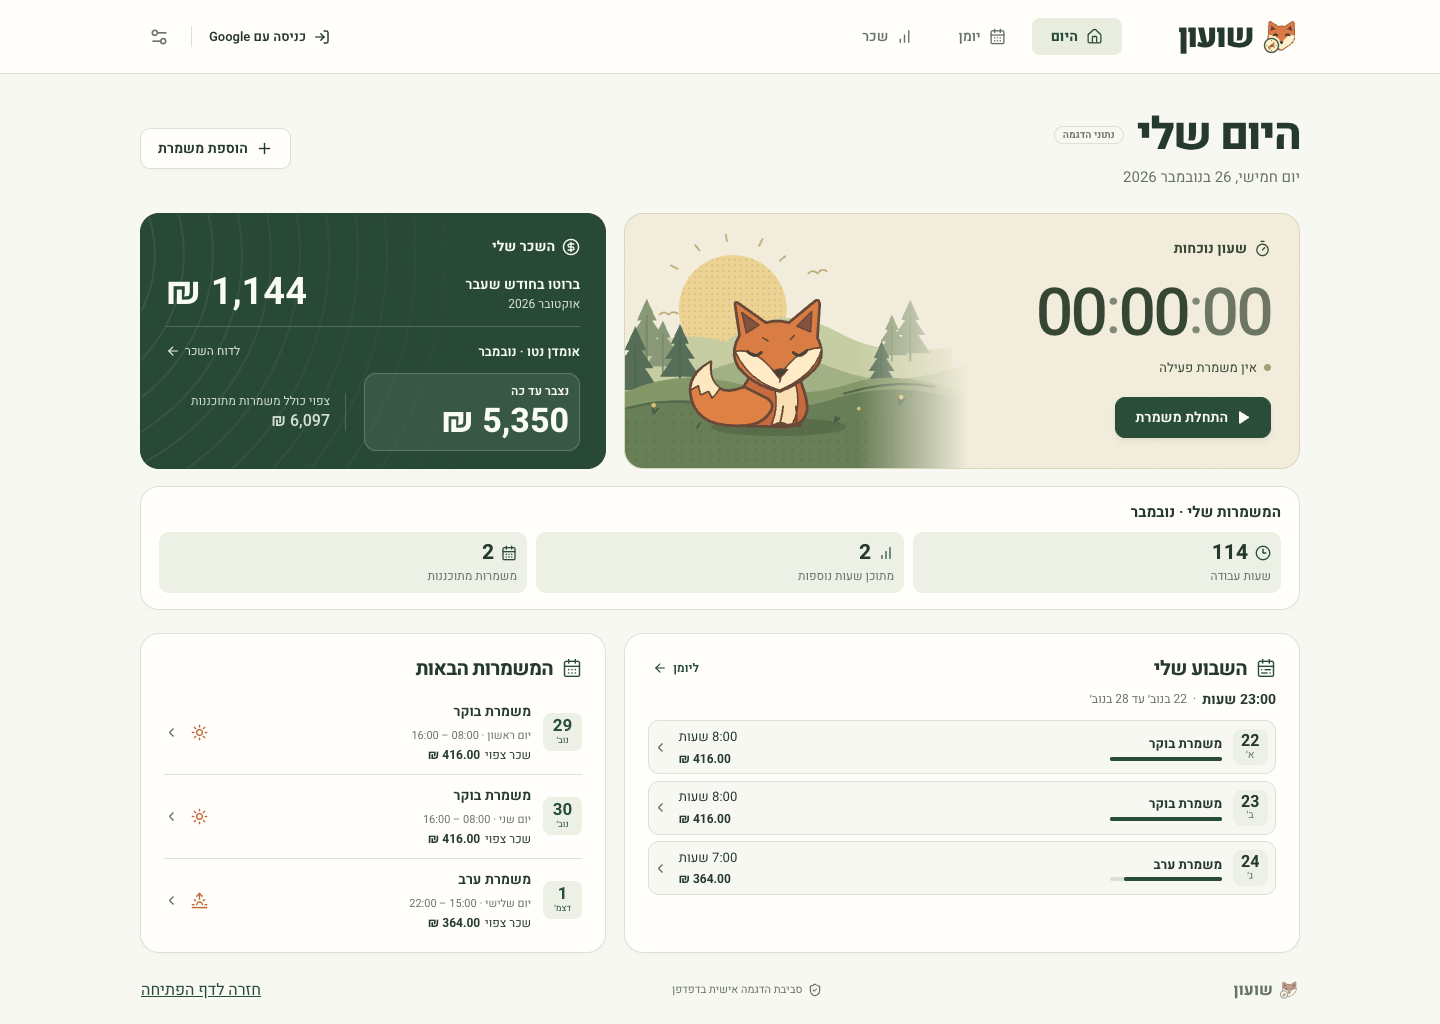
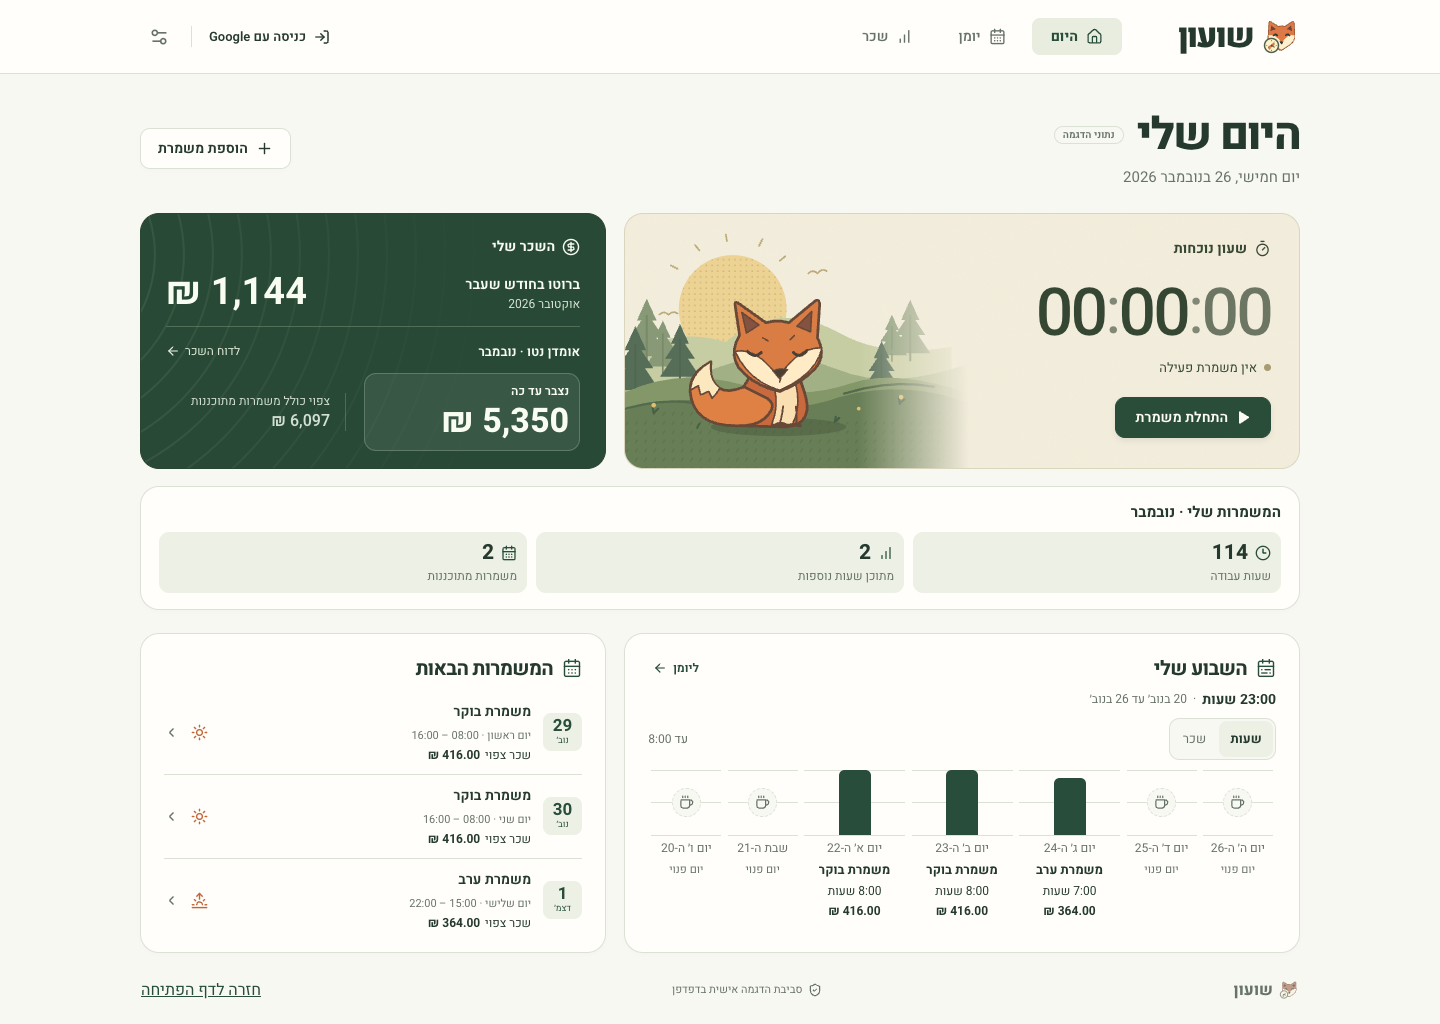
Chart recent shifts by hours and pay with days off

Changed region(s): [[0.4375, 0.7188, 0.6875, 0.9062], [0.7188, 0.7188, 0.875, 0.9062]]

diff --git a/src/components/Dashboard.tsx b/src/components/Dashboard.tsx
@@ -19,7 +19,7 @@ import { Forest } from './Forest'
 import type { ShiftPay } from '../domain/gross'
 import { ShiftGross } from './ShiftGross'
 import { TimeRange } from './TimeRange'
-import { addDays, localDate, localTime, weekday } from '../domain/time'
+import { addDays, HOUR_MS, localDate, localTime } from '../domain/time'
 import { formatWorkDuration, shiftWorkMillis } from '../data/shift-hours'
 import { dateLabel, formatMoney, hourCount, type WorkShift } from '../data/model'
 
@@ -120,14 +120,13 @@ function Clock({ active, scheduled, scheduledGross, busy, foxReaction, onTimer }
   )
 }
 function Weekly({ today, shifts, shiftPayById, onCalendar, onShift }: Pick<Props, 'today' | 'shifts' | 'shiftPayById' | 'onCalendar' | 'onShift'>) {
-  const start = addDays(today, -weekday(today))
-  const end = addDays(start, 6)
+  const start = addDays(today, -6)
   const entries = useMemo(() =>
     shifts
       .map((shift) => ({ shift, date: localDate(shift.start) }))
-      .filter(({ date }) => start <= date && date <= end)
+      .filter(({ date }) => start <= date && date <= today)
       .sort((a, b) => Date.parse(a.shift.start) - Date.parse(b.shift.start)),
-    [shifts, start, end],
+    [shifts, start, today],
   )
   const hasActive = entries.some(({ shift }) => shift.status === 'active')
   const [now, setNow] = useState(Date.now)
@@ -138,9 +137,21 @@ function Weekly({ today, shifts, shiftPayById, onCalendar, onShift }: Pick<Props
     const timer = window.setInterval(refresh, 15_000)
     return () => window.clearInterval(timer)
   }, [hasActive])
-  const rows = entries.map((entry) => ({ ...entry, millis: shiftWorkMillis(entry.shift, now) }))
+  const [metric, setMetric] = useState<'hours' | 'pay'>('hours')
+  const rows = entries.map((entry) => ({
+    ...entry,
+    millis: shiftWorkMillis(entry.shift, now),
+    gross: shiftPayById.get(entry.shift.id)?.gross,
+  }))
+  const columns = Array.from({ length: 7 }, (_, offset) => addDays(today, -offset)).flatMap<{ date: string; row: (typeof rows)[number] | null }>((date) => {
+    const dayRows = rows.filter((row) => row.date === date)
+    return dayRows.length ? dayRows.map((row) => ({ date, row })) : [{ date, row: null }]
+  })
   const total = rows.reduce((sum, row) => sum + row.millis, 0)
-  const longest = rows.reduce((max, row) => Math.max(max, row.millis), 1)
+  const plotValue = (row: (typeof rows)[number]) => metric === 'hours' ? row.millis : row.gross
+  const step = metric === 'hours' ? 2 * HOUR_MS : 100
+  const highest = rows.reduce((max, row) => Math.max(max, plotValue(row) ?? 0), 0)
+  const ceiling = Math.max(step, Math.ceil(highest / step) * step)
   const shortDate = { day: 'numeric', month: 'short' } as const
 
   return (
@@ -157,36 +168,58 @@ function Weekly({ today, shifts, shiftPayById, onCalendar, onShift }: Pick<Props
       <div className="week-sub">
         <b><bdi dir="ltr">{formatWorkDuration(total)}</bdi> שעות</b>
         <span>·</span>
-        {dateLabel(start, shortDate)} עד {dateLabel(end, shortDate)}
+        {dateLabel(start, shortDate)} עד {dateLabel(today, shortDate)}
       </div>
-      {rows.length === 0 ? <p className="week-empty">אין משמרות השבוע.</p> : (
+      <div className="week-graph">
+        <div className="week-graph-toolbar">
+          <div className="week-metric" role="group" aria-label="מדד הגרף">
+            <button type="button" aria-pressed={metric === 'hours'} onClick={() => setMetric('hours')}>שעות</button>
+            <button type="button" aria-pressed={metric === 'pay'} onClick={() => setMetric('pay')}>שכר</button>
+          </div>
+          <span className="week-scale">
+            עד <bdi>{metric === 'hours' ? formatWorkDuration(ceiling) : formatMoney(ceiling)}</bdi>
+          </span>
+        </div>
         <ul className="week-shifts" aria-label="משמרות השבוע">
-          {rows.map(({ shift, date, millis }) => (
-            <li key={shift.id}>
-              <button type="button" className="week-shift" data-status={shift.status} onClick={() => onShift(shift)}>
-                <span className="week-shift-date">
-                  <span className="sr-only">{dateLabel(date, { weekday: 'long', ...shortDate })}</span>
-                  <strong aria-hidden="true">{Number(date.slice(-2))}</strong>
-                  <small aria-hidden="true">{dateLabel(date, { weekday: 'narrow' })}</small>
-                </span>
-                <span className="week-shift-name">
-                  <strong>{shift.title || 'משמרת עבודה'}</strong>
-                  <span className="week-shift-track" aria-hidden="true">
-                    <span style={{ width: (millis / longest) * 100 + '%' }} />
+          {columns.map(({ date, row }) => {
+            const label = dateLabel(date, { weekday: 'short', day: 'numeric' })
+            if (!row) {
+              return (
+                <li className="week-day-off" key={date}>
+                  <button type="button" className="week-shift" onClick={() => onCalendar(date)}>
+                    <span className="week-shift-plot" aria-hidden="true">
+                      <span className="week-off-icon"><Coffee size={15} /></span>
+                    </span>
+                    <span className="week-shift-date">{label}</span>
+                    <span className="week-off-label">יום פנוי</span>
+                  </button>
+                </li>
+              )
+            }
+            const { shift, millis, gross } = row
+            const value = plotValue(row)
+            return (
+              <li key={shift.id}>
+                <button type="button" className="week-shift" data-status={shift.status} onClick={() => onShift(shift)}>
+                  <span className="week-shift-plot" aria-hidden="true">
+                    {value === undefined
+                      ? <span className="week-shift-missing">—</span>
+                      : <span className="week-shift-bar" style={{ height: value / ceiling * 100 + '%' }} />}
                   </span>
-                </span>
-                <span className="week-shift-totals">
-                  <span><bdi dir="ltr">{formatWorkDuration(millis)}</bdi> שעות</span>
-                  {shift.status === 'active'
-                    ? <small>פעילה</small>
-                    : <ShiftGross status={shift.status} gross={shiftPayById.get(shift.id)?.gross} compact />}
-                </span>
-                <ChevronLeft size={15} aria-hidden="true" />
-              </button>
-            </li>
-          ))}
+                  <span className="week-shift-date">{label}</span>
+                  <strong className="week-shift-name">{shift.title || 'משמרת עבודה'}</strong>
+                  <span className="week-shift-totals">
+                    <span><bdi dir="ltr">{formatWorkDuration(millis)}</bdi> שעות</span>
+                    {shift.status === 'active'
+                      ? <small>פעילה</small>
+                      : <ShiftGross status={shift.status} gross={gross} compact />}
+                  </span>
+                </button>
+              </li>
+            )
+          })}
         </ul>
-      )}
+      </div>
     </article>
   )
 }

diff --git a/src/style.css b/src/style.css
@@ -801,27 +801,86 @@ button:not(:disabled):active {
   color: var(--ink);
   font-size: 14px;
 }
+.weekly,
+.week-graph {
+  min-width: 0;
+}
+.week-graph-toolbar {
+  display: flex;
+  align-items: center;
+  justify-content: space-between;
+  margin-top: 0.55rem;
+  gap: 0.5rem;
+}
+.week-metric {
+  display: inline-flex;
+  padding: 2px;
+  gap: 2px;
+  border: 1px solid var(--line);
+  border-radius: 0.65rem;
+  background: var(--paper);
+}
+.week-metric button {
+  min-height: 36px;
+  padding: 0.25rem 0.7rem;
+  border-radius: 0.48rem;
+  background: transparent;
+  color: var(--muted);
+  font-size: 0.8rem;
+  cursor: pointer;
+}
+.week-metric button[aria-pressed='true'] {
+  background: var(--tint);
+  color: var(--ink);
+  font-weight: 700;
+}
+.week-scale,
+.week-shift-date,
+.week-off-label {
+  color: var(--muted);
+  font-size: 0.76rem;
+}
 .week-shifts {
-  display: grid;
-  gap: 0.4rem;
+  display: flex;
+  overflow-x: auto;
   list-style: none;
-  margin: 0.65rem 0 0;
-  padding: 0;
+  margin: 0.45rem 0 0;
+  padding: 0 0 0.2rem;
+}
+.week-shifts li {
+  flex: 1 0 5.35rem;
+  min-width: 0;
+}
+.week-shifts .week-day-off {
+  flex-basis: 3.4rem;
+}
+.week-off-icon {
+  display: grid;
+  place-items: center;
+  align-self: center;
+  width: 1.8rem;
+  height: 1.8rem;
+  border: 1px dashed var(--line);
+  border-radius: 50%;
+  background: var(--paper);
+  color: var(--muted);
+}
+.week-off-label {
+  font-size: 0.7rem;
 }
 .week-shift {
   --week-shift-tone: var(--green);
   display: grid;
-  grid-template-columns: auto minmax(0, 1fr) auto 12px;
-  align-items: center;
-  gap: clamp(0.35rem, 1.5vw, 0.65rem);
+  justify-items: center;
+  align-content: start;
+  gap: 0.22rem;
   width: 100%;
-  min-height: 48px;
-  padding: 0.35rem 0.45rem;
-  border: 1px solid var(--line);
-  border-radius: 0.7rem;
-  background: var(--paper);
+  min-height: 100%;
+  padding: 0.15rem 0.2rem 0.35rem;
+  border-radius: 0.55rem;
+  background: transparent;
   color: var(--ink);
-  text-align: start;
+  text-align: center;
   cursor: pointer;
 }
 .week-shift[data-status='planned'] {
@@ -831,63 +890,42 @@ button:not(:disabled):active {
   --week-shift-tone: var(--clock-active);
 }
 .week-shift:hover {
-  border-color: var(--week-shift-tone);
   background: var(--tint);
 }
-.week-shift-date {
-  display: grid;
-  justify-items: center;
-  align-content: center;
-  inline-size: 2.2rem;
-  min-block-size: 2.25rem;
-  border-radius: 0.5rem;
-  background: var(--tint);
-  color: var(--ink);
-  line-height: 1.05;
+.week-shift:focus-visible {
+  outline-offset: -2px;
 }
-.week-shift-date strong {
-  font-size: 1rem;
+.week-shift-plot {
+  display: flex;
+  justify-content: center;
+  align-items: end;
+  width: 100%;
+  height: 4.1rem;
+  border-bottom: 1px solid var(--line);
+  background: repeating-linear-gradient(to bottom, var(--line) 0 1px, transparent 1px 50%);
 }
-.week-shift-date small {
-  font-size: 0.65rem;
+.week-shift-bar {
+  width: min(55%, 2rem);
+  background: var(--week-shift-tone);
+  border-radius: 0.35rem 0.35rem 0 0;
 }
-.week-shift-name,
-.week-shift-totals {
-  display: grid;
-  gap: 0.18rem;
-  font-size: 0.82rem;
+.week-shift[data-status='planned'] .week-shift-bar {
+  background: repeating-linear-gradient(-45deg, var(--week-shift-tone) 0 3px, var(--tint) 3px 5px);
 }
 .week-shift-name {
+  width: 100%;
+  font-size: 0.8rem;
   overflow-wrap: anywhere;
 }
-.week-shift-track {
-  display: block;
-  height: 4px;
-  width: min(100%, 7rem);
-  border-radius: 999px;
-  background: var(--line);
-}
-.week-shift-track span {
-  display: block;
-  height: 100%;
-  border-radius: inherit;
-  background: var(--week-shift-tone);
-}
 .week-shift-totals {
-  justify-items: end;
+  display: grid;
+  justify-items: center;
+  gap: 0.12rem;
+  font-size: 0.75rem;
   font-variant-numeric: tabular-nums;
 }
-.week-shift small,
-.week-shift > svg,
-.week-empty {
-  color: var(--muted);
-}
-.week-empty {
-  color: var(--muted);
-}
-.week-empty {
-  font-size: 0.86rem;
-  margin: 0.75rem 0 0;
+.week-shift-totals .shift-gross {
+  justify-content: center;
 }
 .upcoming .panel-heading {
   margin-bottom: 8px;

diff --git a/README.md b/README.md
@@ -16,12 +16,12 @@
 
 | מסך | מה עושים בו |
 | --- | --- |
-| **היום שלי** | מתחילים ומסיימים משמרת, רושמים הפסקות ורואים ברשימה השבועית תאריך, פס אורך, שעות ושכר לכל משמרת. לכל משמרת מתוכננת מוצג השכר הצפוי. לצד השעון מופיעים הברוטו של החודש הקודם, אומדן הנטו שנצבר החודש, שמוצג בהבלטה, והתחזית לסופו. |
+| **היום שלי** | מתחילים ומסיימים משמרת, רושמים הפסקות ורואים בגרף השבועי את שעות העבודה והשכר לכל משמרת בשבעת הימים האחרונים. ימים בלי משמרות מסומנים כימים פנויים. אפשר להחליף את מדד העמודות בין שעות לשכר. לכל משמרת מתוכננת מוצג השכר הצפוי. לצד השעון מופיעים הברוטו של החודש הקודם, אומדן הנטו שנצבר החודש, שמוצג בהבלטה, והתחזית לסופו. |
 | **יומן המשמרות** | בודקים מה עבדתם ומה מתוכנן, מזינים שעות בדיעבד ומחילים אותן שעות על כמה ימים. בכל שורה מופיע השכר למשמרת כולה או השכר הצפוי למשמרת מתוכננת. משמרת שחוצה חצות מופיעה ביומן ביום שבו התחילה, עם כל שעות העבודה והשכר שלה. בטופס המשמרת מוצגות כברירת מחדל שעות ידניות. אפשר לעבור לבחירה מתבנית ולהוסיף הערה ישירות. בעריכת משמרת קיימת אפשר למחוק אותה אחרי אישור מפורש. |
 | **השכר שלי** | בוחרים חודש ומשווים בין מה שנצבר בפועל לבין התחזית הכוללת משמרות מתוכננות. הדוח מפרט ברוטו, נטו משוער, ניכויים ושעות נוספות. אפשר להזין נתוני תלוש לחודש שנבחר, כולל חודשים קודמים. |
 | **הגדרות** | מעדכנים את שאלון השכר, נקודות זיכוי, הגדרות פנסיה, תעריפים לפי תאריך, ימי מנוחה וחגים ותבניות משמרת. לחיצה על תבנית פותחת עריכה של השם ושעות המשמרת בחלון קצר. אפשר לבחור מראה בהיר, כהה, מרווה או התאמה למכשיר. |
 
-![הדשבורד היום שלי עם שעון נוכחות, סיכום שכר ורשימת משמרות שבועית](docs/screenshots/today-desktop.png)
+![הדשבורד היום שלי עם שעון נוכחות, סיכום שכר וגרף משמרות שבועי](docs/screenshots/today-desktop.png)
 
 | יומן משמרות | דוח שכר |
 | --- | --- |
